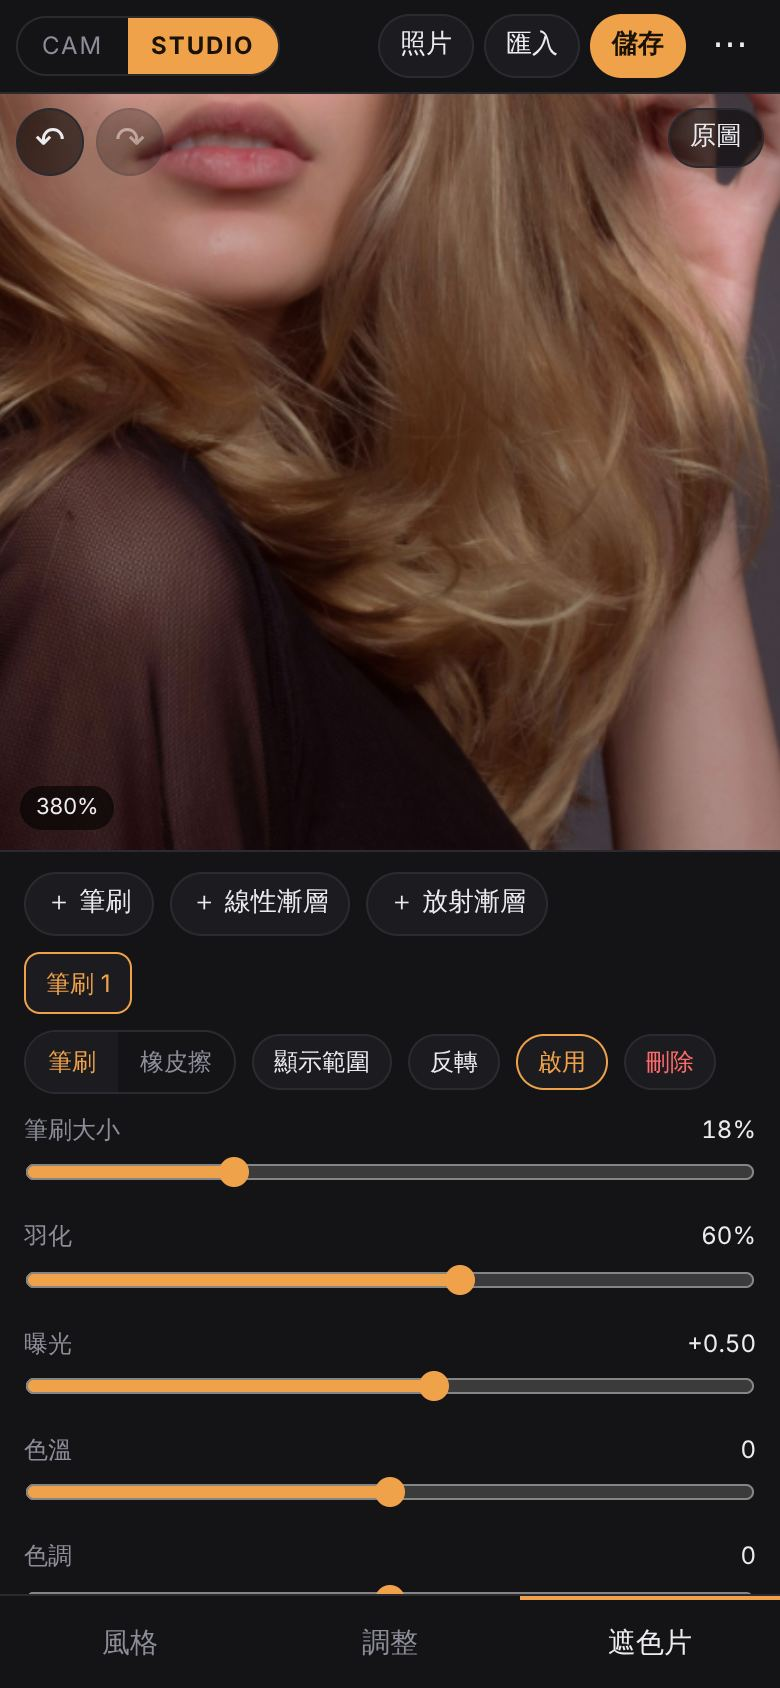
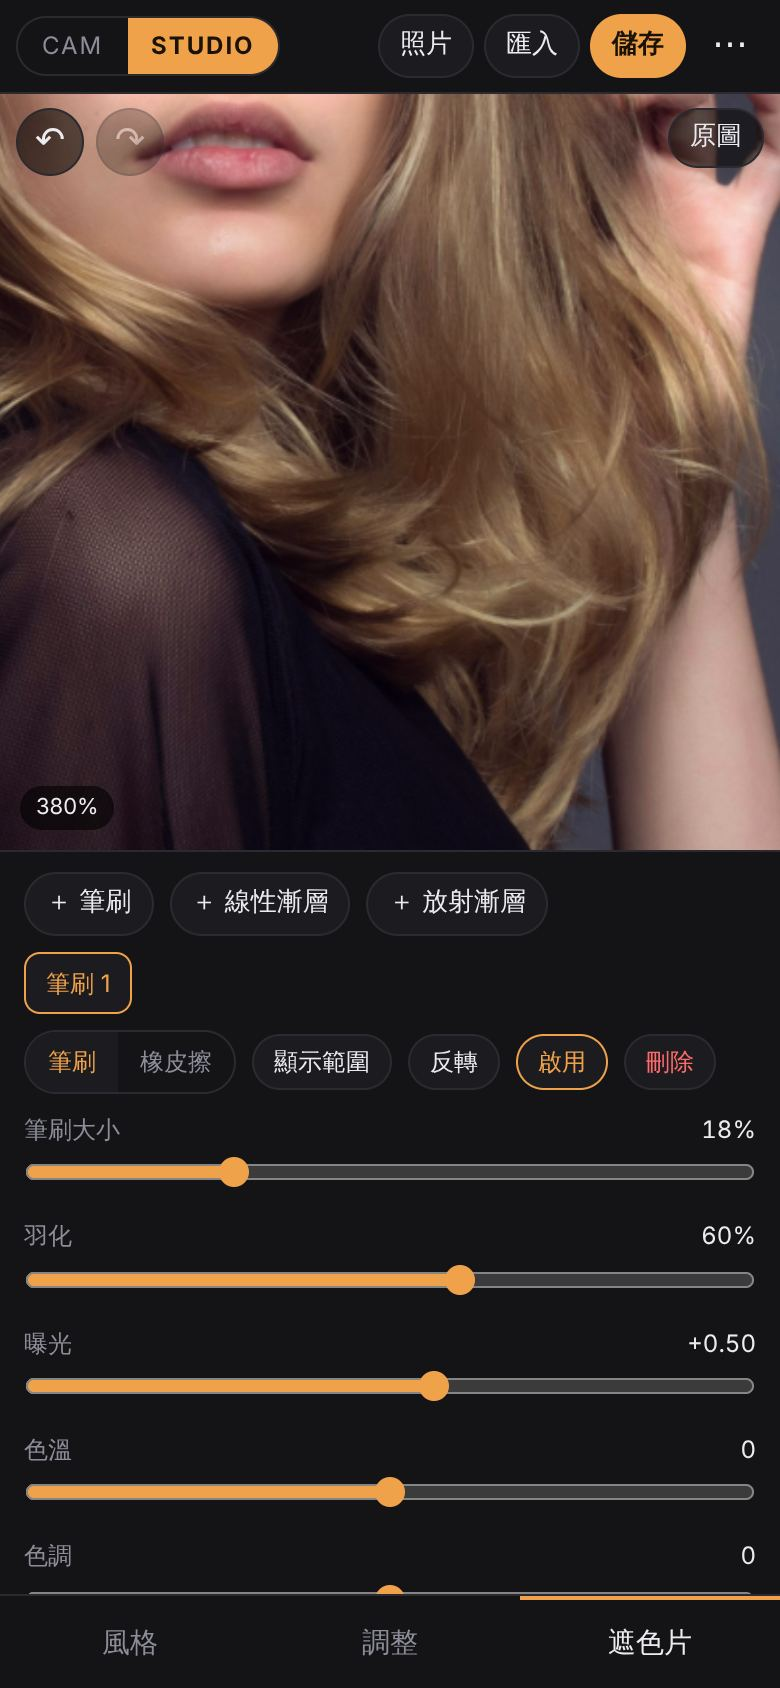
Library clarity, and one look pipeline shared by CAM and Studio
Library: less local flattening, a little sharpening, finer and lighter
grain, softer glow (detail kept 90-98% -> 94-99%, grain energy about 40%).

Studio now renders eigacam looks with the camera's own effects: soft
focus, glow, light emphasis, local softening, sharpening and skin
protection. Both read the same looks.js through develop.js renderSettings
and run the same shader maths, so tuning a look updates both. The browser
acceptance run now compares Studio against the camera renderer with every
effect on for six looks (mean difference 0.25/255, nothing above 3).

Claude-Session: https://claude.ai/code/session_01FRf5iYRawD8pofpK2po6zc

diff --git a/dist/eigastudio/src/engine.js b/dist/eigastudio/src/engine.js
@@ -11,7 +11,8 @@ void main(){uv=position*.5+.5;gl_Position=vec4(position,0.,1.);}`;
 const fragment = `#version 300 es
 precision highp float;precision highp int;precision highp sampler3D;precision highp sampler2DArray;
 in vec2 uv;out vec4 frag;
-uniform sampler2D src,curveTex;uniform sampler3D lut;uniform sampler2DArray brushTex;
+uniform sampler2D src,curveTex,nearTex,farTex,baseTex;uniform int op;uniform vec2 direction;uniform float threshold;uniform vec3 glowTint;
+uniform float sharpen,clarity,soft,localClarity,localClarityLow,halation,bloom,skinKeep;uniform sampler3D lut;uniform sampler2DArray brushTex;
 uniform vec2 outSize;uniform float srcAspect,bypass,strength,lutOn,lutSize,lutDisplay,curveOn;
 uniform vec3 domainMin,domainMax,gain,overlayColor;
 uniform float contrast,highlights,shadows,saturation,vignette,grainAmount,grainSize;
@@ -52,13 +53,24 @@ vec3 lookup(vec3 lin){
  s=clamp(s,0.,1.)*(lutSize-1.)/lutSize+.5/lutSize;
  return texture(lut,s).rgb;
 }
+vec3 scene(vec2 t){return decode(texture(src,t).rgb)*gain;}
+// Skin likelihood from the YCbCr skin cluster (same as the camera).
+float skinMask(vec3 lin){
+ vec3 p=clamp(encode(lin),0.,1.)*255.;float y=dot(p,vec3(.299,.587,.114));
+ float cb=128.-.168736*p.r-.331264*p.g+.5*p.b,cr=128.+.5*p.r-.418688*p.g-.081312*p.b;
+ float e=length(vec2((cb-109.)/18.,(cr-152.)/16.));
+ return (1.-smoothstep(.65,1.2,e))*smoothstep(30.,70.,y)*(1.-smoothstep(240.,254.,y));
+}
 float enc1(float x){return x<=.0031308?x*12.92:1.055*pow(x,1./2.4)-.055;}
 float dec1(float x){return x<=.04045?x/12.92:pow((x+.055)/1.055,2.4);}
 void main(){
+ // op 1: highlight energy (threshold −5 keeps the whole scene) · op 2: separable blur. Same passes as the camera.
+ if(op==1){vec3 c=scene(uv);float l=max(lum(c),max(c.r,max(c.g,c.b))*.8);frag=vec4(c*smoothstep(threshold-.18,threshold+.25,l),1.);return;}
+ if(op==2){vec3 sum=vec3(0.);float total=0.;for(int i=-6;i<=6;i++){float w=exp(-float(i*i)/18.);sum+=texture(src,uv+direction*float(i)/6.).rgb*w;total+=w;}frag=vec4(sum/total,1.);return;}
  vec2 img=vec2(uv.x,1.-uv.y);
  vec4 s=texture(src,uv);
  if(bypass>.5){frag=vec4(s.rgb,1.);return;}
- vec3 c=decode(s.rgb)*gain;
+ vec3 c=decode(s.rgb)*gain,raw=c;float skin=skinKeep>0.||clarity>0.||soft>0.||localClarity<0.?skinMask(raw):0.;
  if(contrast!=0.||highlights!=0.||shadows!=0.){ // tone on display luminance, applied as a ratio so hue holds
   float y0=lum(c),Y=clamp(enc1(y0),0.,1.),Y0=Y;float k=1.+contrast*.5;
   Y=Y<.5?.5*pow(Y/.5,k):1.-.5*pow((1.-Y)/.5,k);
@@ -67,12 +79,22 @@ void main(){
  }
  if(saturation!=0.){float y=lum(c);c=max(mix(vec3(y),c,1.+saturation),0.);}
  if(curveOn>.5){vec3 d=clamp(encode(c),0.,1.)*(255./256.)+.5/256.;c=decode(vec3(texture(curveTex,vec2(d.r,.5)).r,texture(curveTex,vec2(d.g,.5)).g,texture(curveTex,vec2(d.b,.5)).b));}
+ if(sharpen>0.){ // luminance-only unsharp mask on a one-pixel cross, soft-limited so edges never ring
+  vec2 px=1./outSize;vec3 n=(scene(uv+vec2(px.x,0.))+scene(uv-vec2(px.x,0.))+scene(uv+vec2(0.,px.y))+scene(uv-vec2(0.,px.y)))*.25;
+  float L=sqrt(max(lum(raw),0.)),N=sqrt(max(lum(n),0.)),d=L-N;d=d/(1.+abs(d)*6.);float sL=max(L+sharpen*1.6*d,0.);c*=sL*sL/max(L*L,1e-6);
+ }
  vec3 base=c;float shown=0.;
  for(int i=0;i<${MAX_SLOTS};i++){if(i>=maskCount)break;float m=maskValue(i,img,base);c=adjust(c,m*mA[i].w,i);if(i==maskView-1)shown=m;}
+ // Light emphasis, soft focus and local softening: the camera's look effects, against a blurred copy of the scene.
+ if(clarity>0.){float lb=lum(texture(baseTex,uv).rgb),lc=lum(c);c*=clamp(pow((lc+.008)/(lb+.008),clarity*(1.-.6*skin)),.55,1.8);}
+ if(soft>0.){vec3 mist=texture(baseTex,uv).rgb;float bright=smoothstep(.35,1.,lum(mist)),keep=smoothstep(.004,.06,lum(c));c+=max(mist-c,vec3(0.))*soft*.22*bright*keep*(1.-.65*skin);}
+ if(localClarity<0.){float y=lum(c),by=lum(texture(baseTex,uv).rgb);float m=smoothstep(0.,max(.01,localClarityLow),lum(encode(c)));float target=mix(y,by,-localClarity*.38*m*(1.-.4*skin));c*=clamp((target+.001)/(y+.001),.7,1.4);}
  vec3 neutral=clamp(encode(c),0.,1.);
  vec3 color=neutral;
  if(lutOn>.5){
-  color=mix(neutral,lookup(c),strength);
+  vec3 glow=halation+bloom>0.?texture(nearTex,uv).rgb*halation*glowTint+texture(farTex,uv).rgb*bloom*mix(vec3(1.),glowTint,.4):vec3(0.);
+  color=mix(neutral,lookup(c+glow),strength);
+  if(skinKeep>0.&&skin>.02){vec3 nat=neutral*vec3(1.015,.99,.985);nat=mix(vec3(lum(nat)),nat,.92);color=mix(color,mix(nat,color,.38),skin*skinKeep*strength);}
   vec2 q=uv-.5;q.x*=outSize.x/outSize.y;float r=length(q)/length(vec2(.5*outSize.x/outSize.y,.5));
   color*=1.-vignette*strength*smoothstep(.35,1.05,r);
   if(grainAmount>0.){
@@ -126,7 +148,8 @@ export class StudioRenderer {
   const buf = g.createBuffer(); g.bindBuffer(g.ARRAY_BUFFER, buf); g.bufferData(g.ARRAY_BUFFER, new Float32Array([-1, -1, 1, -1, -1, 1, 1, 1]), g.STATIC_DRAW);
   g.enableVertexAttribArray(0); g.vertexAttribPointer(0, 2, g.FLOAT, false, 0, 0);
   this.locs = new Map(); this.sources = new Map(); this.luts = new Map();
-  for (const [name, unit] of [['src', 0], ['lut', 3], ['curveTex', 5], ['brushTex', 6]]) g.uniform1i(this.loc(name), unit);
+  this.floatTargets = !!g.getExtension('EXT_color_buffer_float') || !!g.getExtension('EXT_color_buffer_half_float'); this.targets = null;
+  for (const [name, unit] of [['src', 0], ['nearTex', 1], ['farTex', 2], ['baseTex', 4], ['lut', 3], ['curveTex', 5], ['brushTex', 6]]) g.uniform1i(this.loc(name), unit);
   // Placeholders so every sampler is always complete.
   this.neutralLut = this.makeLut({size: 2, data: new Float32Array([0, 0, 0, 1, 1, 0, 0, 1, 0, 1, 0, 1, 1, 1, 0, 1, 0, 0, 1, 1, 1, 0, 1, 1, 0, 1, 1, 1, 1, 1, 1, 1])});
   this.curveTex = this.tex2D(); g.texImage2D(g.TEXTURE_2D, 0, g.RGBA8, 1, 1, 0, g.RGBA, g.UNSIGNED_BYTE, new Uint8Array(4));
@@ -149,6 +172,30 @@ export class StudioRenderer {
   g.activeTexture(g.TEXTURE0); g.bindTexture(g.TEXTURE_2D, s.tex);
   g.pixelStorei(g.UNPACK_FLIP_Y_WEBGL, true); g.texImage2D(g.TEXTURE_2D, 0, g.RGBA8, g.RGBA, g.UNSIGNED_BYTE, image); g.pixelStorei(g.UNPACK_FLIP_Y_WEBGL, false);
   g.generateMipmap(g.TEXTURE_2D); g.texParameteri(g.TEXTURE_2D, g.TEXTURE_MIN_FILTER, g.LINEAR_MIPMAP_LINEAR);
+ }
+ // Blur buffers for the camera's look effects; sized from the output like the camera does.
+ ensureTargets(width, height) {
+  if (this.targets?.w === width && this.targets?.h === height) return this.targets;
+  const g = this.gl; for (const t of Object.values(this.targets ?? {})) if (t.fb) {g.deleteTexture(t.tex); g.deleteFramebuffer(t.fb);}
+  g.activeTexture(g.TEXTURE7); // allocate on a spare unit so no sampler in use ends up pointing at a render target
+  const near = Math.min(1, 720 / Math.max(width, height), .5), far = Math.min(1, 160 / Math.max(width, height));
+  const make = s => {
+   const w = Math.max(1, Math.round(width * s)), h = Math.max(1, Math.round(height * s)), tex = this.tex2D();
+   if (this.floatTargets) g.texImage2D(g.TEXTURE_2D, 0, g.RGBA16F, w, h, 0, g.RGBA, g.HALF_FLOAT, null); else g.texImage2D(g.TEXTURE_2D, 0, g.RGBA8, w, h, 0, g.RGBA, g.UNSIGNED_BYTE, null);
+   const fb = g.createFramebuffer(); g.bindFramebuffer(g.FRAMEBUFFER, fb); g.framebufferTexture2D(g.FRAMEBUFFER, g.COLOR_ATTACHMENT0, g.TEXTURE_2D, tex, 0);
+   return {tex, fb, width: w, height: h};
+  };
+  return this.targets = {w: width, h: height, nearA: make(near), nearB: make(near), farA: make(far), farB: make(far), baseA: make(far * 1.6), baseB: make(far * 1.6)};
+ }
+ pass(op, target, input) {
+  const g = this.gl; g.uniform1i(this.loc('op'), op);
+  if (input) {g.activeTexture(g.TEXTURE0); g.bindTexture(g.TEXTURE_2D, input);}
+  g.bindFramebuffer(g.FRAMEBUFFER, target.fb); g.viewport(0, 0, target.width, target.height); g.drawArrays(g.TRIANGLE_STRIP, 0, 4);
+ }
+ blur(a, b, radius, width, height) {
+  const g = this.gl, short = Math.min(width, height);
+  g.uniform2f(this.loc('direction'), radius * short / width, 0); this.pass(2, b, a.tex);
+  g.uniform2f(this.loc('direction'), 0, radius * short / height); this.pass(2, a, b.tex);
  }
  dropSource(key) {const s = this.sources.get(key); if (s) {this.gl.deleteTexture(s.tex); this.sources.delete(key);}}
  makeLut(lut) {
@@ -208,6 +255,21 @@ export class StudioRenderer {
   f('contrast', (adjust.contrast ?? 0) / 100); f('highlights', (adjust.highlights ?? 0) / 100); f('shadows', (adjust.shadows ?? 0) / 100); f('saturation', (adjust.saturation ?? 0) / 100);
   f('curveOn', p.curve !== false && this.hasCurve ? 1 : 0);
   f('vignette', style?.vignette ?? 0); f('grainAmount', style?.grain?.amount ?? 0); f('grainSize', style?.grain?.size ?? 1.5);
+  // Camera look effects (eigacam looks only). Everything but the glow is scaled by strength, so 0% is the untouched photo.
+  const fx = style?.fx, k = strength, glow = fx && (fx.halation + fx.bloom) > 0, base = fx && k > 0 && (fx.clarity > 0 || fx.soft > 0 || fx.localClarity < 0);
+  f('sharpen', (fx?.sharpen ?? 0) * k); f('clarity', (fx?.clarity ?? 0) * k); f('soft', (fx?.soft ?? 0) * k); f('localClarity', (fx?.localClarity ?? 0) * k); f('localClarityLow', fx?.localClarityLow ?? .595);
+  f('halation', glow ? fx.halation : 0); f('bloom', glow ? fx.bloom : 0); f('skinKeep', fx?.skinKeep ?? 0);
+  const hue = (fx?.glowHue ?? 20) / 60, gs = fx?.glowSat ?? .55, tk = n => {const v = (n + hue) % 6; return 1 - gs * Math.max(0, Math.min(v, 4 - v, 1));}, tint = [tk(5), tk(3), tk(1)], tl = .2126 * tint[0] + .7152 * tint[1] + .0722 * tint[2];
+  g.uniform3f(this.loc('glowTint'), ...tint.map(v => v / tl));
+  for (const unit of [1, 2, 4]) {g.activeTexture(g.TEXTURE0 + unit); g.bindTexture(g.TEXTURE_2D, null);} // no feedback loops
+  if (glow || base) {
+   const T = this.ensureTargets(p.width, p.height);
+   if (base) {g.activeTexture(g.TEXTURE0); g.bindTexture(g.TEXTURE_2D, s.tex); f('threshold', -5); this.pass(1, T.baseA); this.blur(T.baseA, T.baseB, .035, p.width, p.height);}
+   if (glow) {g.activeTexture(g.TEXTURE0); g.bindTexture(g.TEXTURE_2D, s.tex); f('threshold', .78); this.pass(1, T.nearA); this.blur(T.nearA, T.nearB, .007, p.width, p.height); g.uniform2f(this.loc('direction'), 0, 0); this.pass(2, T.farA, T.nearA.tex); this.blur(T.farA, T.farB, .045, p.width, p.height);}
+   g.activeTexture(g.TEXTURE1); g.bindTexture(g.TEXTURE_2D, T.nearA.tex); g.activeTexture(g.TEXTURE2); g.bindTexture(g.TEXTURE_2D, T.farA.tex); g.activeTexture(g.TEXTURE4); g.bindTexture(g.TEXTURE_2D, T.baseA.tex);
+   g.activeTexture(g.TEXTURE0); g.bindTexture(g.TEXTURE_2D, s.tex);
+  }
+  g.uniform1i(this.loc('op'), 0);
   const m = packMasks(style?.masks, p.masks, strength, p.view ?? null);
   g.uniform1i(this.loc('maskCount'), m.count); g.uniform1i(this.loc('maskView'), m.view);
   for (const k of ['a', 'b', 'c', 'd']) g.uniform4fv(this.loc(`m${k.toUpperCase()}[0]`), m[k]);

diff --git a/dist/eigastudio/src/recipe.js b/dist/eigastudio/src/recipe.js
@@ -5,8 +5,8 @@
 import {LOOKS} from '../../src/looks.js';
 import {bakeLook} from '../../src/color.js';
 import {sanitizeMasks} from '../../src/masks.js';
+import {renderSettings} from '../../src/develop.js';
 
-const CAM_ONLY = [['glow', '光暈'], ['soft', '柔焦'], ['skin', '膚色獨立渲染'], ['clarity', '光影強調'], ['localClarity', '局部柔化'], ['detail', '銳利化']];
 const isLook = o => o && typeof o === 'object' && (o.lr || o.tone || o.hues || o.gain || o.print || o.mono);
 const isRecipe = o => o && typeof o === 'object' && typeof o.base === 'string' && Array.isArray(o.masks);
 const num = v => typeof v === 'number' && Number.isFinite(v);
@@ -36,12 +36,15 @@ export function resolveDef(def) {
 // → {name, compile(size)} with notes about camera-only features Studio leaves out.
 export function describeLook(def) {
  const look = resolveDef(def); checkLook(look);
- const left = CAM_ONLY.filter(([k]) => k === 'glow' ? (look.glow?.halation || look.glow?.bloom) : look[k]).map(x => x[1]);
- return {name: String(look.name ?? look.id ?? 'eigacam 配方').slice(0, 60), notes: left.length ? [`CAM 專用效果不套用：${left.join('、')}（Studio 套用色彩、遮色片、暗角與顆粒）`] : [], partial: left.length > 0};
+ return {name: String(look.name ?? look.id ?? 'eigacam 配方').slice(0, 60), notes: [], partial: false};
 }
 export function compileLook(def, size = 33) {
  const look = resolveDef(def);
- return {lut: bakeLook(look, size), masks: sanitizeMasks(look.masks ?? []), vignette: Math.min(.6, Math.max(0, Number(look.vignette ?? .12) || 0)), grain: {amount: Math.min(.2, Math.max(0, Number(look.grain?.amount) || 0)), size: Math.min(4, Math.max(.5, Number(look.grain?.size) || 1.5))}};
+ // Same settings the camera uses with its dials at their defaults (glow at the look's own default, no beauty smoothing).
+ const s = renderSettings(look, {ev: 0, strength: 100, grain: 100, glow: look.glowDefault ?? 100, sharpen: 35, warmth: 0, beauty: 0});
+ const n = (v, lo, hi) => Math.min(hi, Math.max(lo, Number(v) || 0));
+ const fx = {sharpen: n(s.sharpen, 0, 1), clarity: n(s.clarity, 0, 1), soft: n(s.soft, 0, 1.5), localClarity: n(s.localClarity, -1, 0), localClarityLow: n(s.localClarityLow, .05, 1) || .595, halation: n(s.halation, 0, 2), bloom: n(s.bloom, 0, 2), glowHue: n(s.glowHue, 0, 360), glowSat: n(s.glowSat ?? .55, 0, 1), skinKeep: n(s.skinKeep, 0, 1)};
+ return {lut: bakeLook(look, size), masks: sanitizeMasks(look.masks ?? []), vignette: n(s.vignette, 0, .6), grain: {amount: n(s.grain, 0, .2), size: n(s.grainSize, .5, 4) || 1.5}, fx};
 }
 
 export function parseRecipeFile(text) {

diff --git a/dist/eigastudio/sw.js b/dist/eigastudio/sw.js
@@ -1,6 +1,6 @@
 // App shell cache for offline use. Network first, so a new deploy is picked up on the next load.
-const CACHE = 'eigastudio-v1';
-const ASSETS = ['./', './index.html', './manifest.webmanifest', './src/style.css', './src/app.js', './src/engine.js', './src/library.js', './src/importer.js', './src/xmp.js', './src/cube.js', './src/lr.js', './src/recipe.js', './vendor/fflate.js', '../src/color.js', '../src/looks.js', '../src/masks.js', '../src/files.js', '../src/photo-delivery.js', '../icon.svg', '../assets/icon-192.png', '../assets/icon-512.png'];
+const CACHE = 'eigastudio-v2';
+const ASSETS = ['./', './index.html', './manifest.webmanifest', './src/style.css', './src/app.js', './src/engine.js', './src/library.js', './src/importer.js', './src/xmp.js', './src/cube.js', './src/lr.js', './src/recipe.js', './vendor/fflate.js', '../src/color.js', '../src/looks.js', '../src/masks.js', '../src/files.js', '../src/photo-delivery.js', '../src/develop.js', '../src/engine/renderer.js', '../src/engine/shaders.js', '../icon.svg', '../assets/icon-192.png', '../assets/icon-512.png'];
 self.addEventListener('install', e => e.waitUntil(caches.open(CACHE).then(c => c.addAll(ASSETS)).then(() => self.skipWaiting())));
 self.addEventListener('activate', e => e.waitUntil(caches.keys().then(keys => Promise.all(keys.filter(k => k.startsWith('eigastudio-') && k !== CACHE).map(k => caches.delete(k)))).then(() => self.clients.claim())));
 self.addEventListener('fetch', e => {

diff --git a/dist/eigastudio/src/app.js b/dist/eigastudio/src/app.js
@@ -556,8 +556,8 @@ function compatTable() {
  <tr><td>LUT_1D_SIZE、其他格式（.3dl、.look）</td><td class="st-none">未支援</td><td></td></tr></table>
  <table><tr><th>eigacam 配方</th><th>狀態</th><th>說明</th></tr>
  <tr><td>色彩模型（gain、hues、tone、print）與 lr 設定</td><td class="st-ok">已實作</td><td>直接使用 CAM 的 color.js 烘焙成同一張 3D LUT</td></tr>
- <tr><td>遮色片（漸層、圓形、明暗、顏色）、暗角、顆粒</td><td class="st-ok">已實作</td><td>與 CAM 相同的著色器運算</td></tr>
- <tr><td>光暈、柔焦、膚色獨立渲染、美肌、光影強調</td><td class="st-none">未支援</td><td>CAM 專用的多重模糊流程</td></tr></table>`;
+ <tr><td>遮色片（漸層、圓形、明暗、顏色）、暗角、顆粒、柔焦、光暈、光影強調、局部柔化、銳利化、膚色保護</td><td class="st-ok">已實作</td><td>與 CAM 相同的設定與著色器運算，CAM 參數轉盤維持預設時兩邊畫面一致</td></tr>
+ <tr><td>美肌、室內模式、拍攝模式</td><td class="st-skip">CAM 專用</td><td>屬於拍攝時的設定，不是色彩本身</td></tr></table>`;
 }
 function initMenu() {
  addEventListener('beforeinstallprompt', e => {e.preventDefault(); installEvent = e; $('installBtn').hidden = false;});

diff --git a/dist/sw.js b/dist/sw.js
@@ -1,4 +1,4 @@
-const CACHE='eigacam-camera-v23';
+const CACHE='eigacam-camera-v24';
 const ASSETS=["./", "./index.html", "./icon.svg", "./manifest.webmanifest", "./src/style.css", "./src/app.js", "./src/camera.js", "./src/color.js", "./src/looks.js", "./src/masks.js", "./src/develop.js", "./src/roll.js", "./src/files.js", "./src/photo-delivery.js", "./src/engine/renderer.js", "./src/engine/shaders.js", "./assets/icons/camera-rotate.svg", "./assets/icons/photo.svg", "./assets/icons/check.svg", "./assets/icons/LICENSE", "./assets/icon-192.png", "./assets/icon-512.png", "./presets/EIGACAM-Neon-Rain.xmp"];
 self.addEventListener('install',e=>e.waitUntil(caches.open(CACHE).then(c=>c.addAll(ASSETS)).then(()=>self.skipWaiting())));
 self.addEventListener('activate',e=>e.waitUntil(caches.keys().then(keys=>Promise.all(keys.filter(k=>(k.startsWith('luma-studio-')||k.startsWith('eigacam-studio-')||k.startsWith('eigacam-camera-'))&&k!==CACHE).map(k=>caches.delete(k)))).then(()=>self.clients.claim())));

diff --git a/dist/src/looks.js b/dist/src/looks.js
@@ -81,9 +81,9 @@ LOOKS.push(
   shadows: [45, .022], highlights: [80, .02],
   tone: {contrast: 1.1, pivot: .45, black: .018, white: .985, knee: .7},
   print: [[.008, 1, 1], [.003, 1.01, .99], [0, 1.05, .93]],
-  vignette: .2, skin: .6, clarity: .3, soft: .55, localClarity: -.3,
+  vignette: .2, skin: .6, clarity: .3, soft: .55, localClarity: -.1, detail: .08,
   masks: [createMask('luma', {name: '燈光暈', lo: 72, hi: 100, feather: 14, adj: {hue: 40, amount: 18}})],
-  grain: {amount: .065, size: 1.8}, glow: {halation: .4, bloom: .45, hue: 30}
+  grain: {amount: .035, size: 1.25}, glow: {halation: .3, bloom: .3, hue: 30}
  }
 );
 
